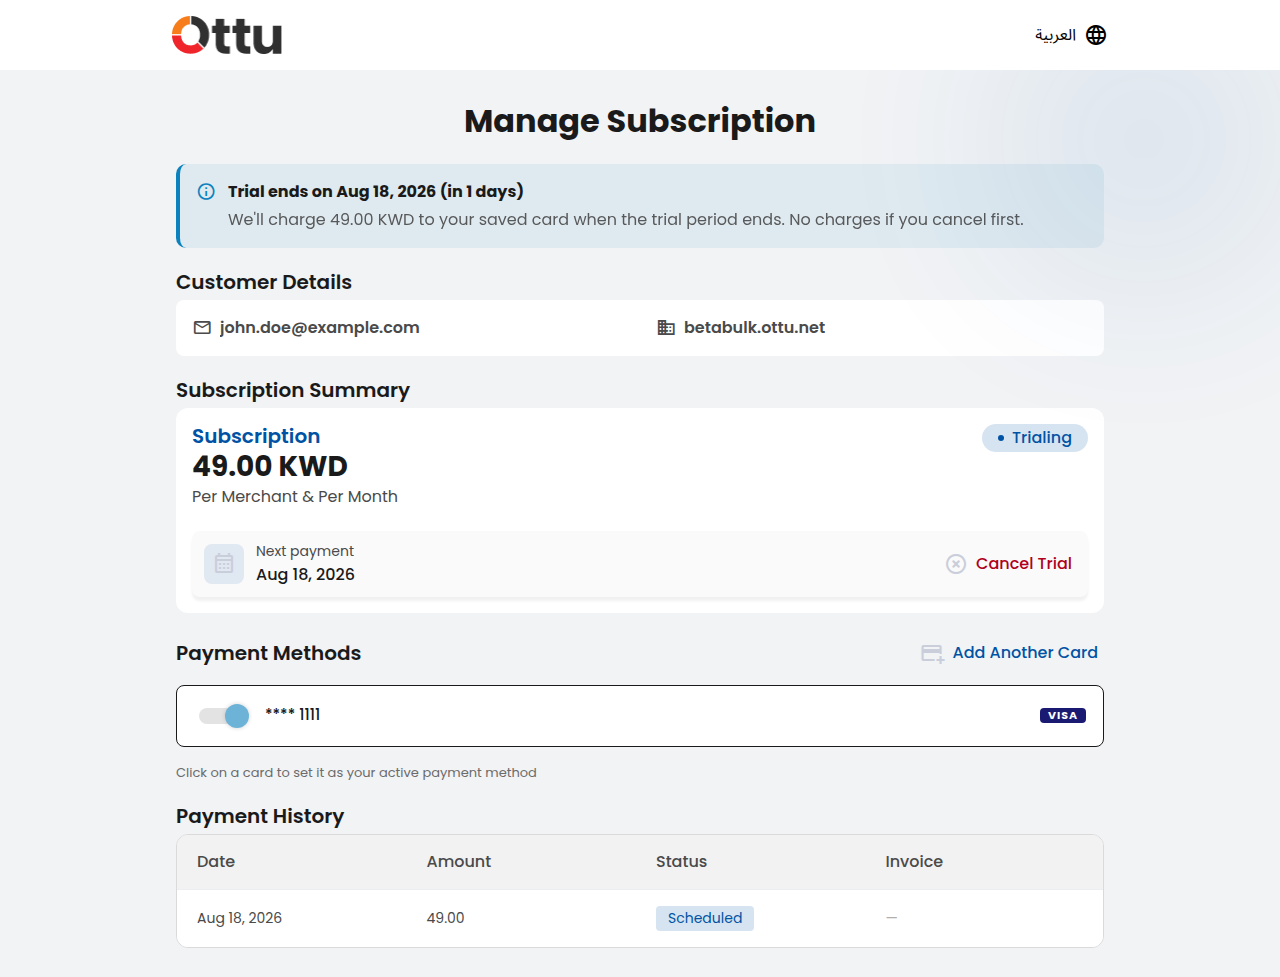
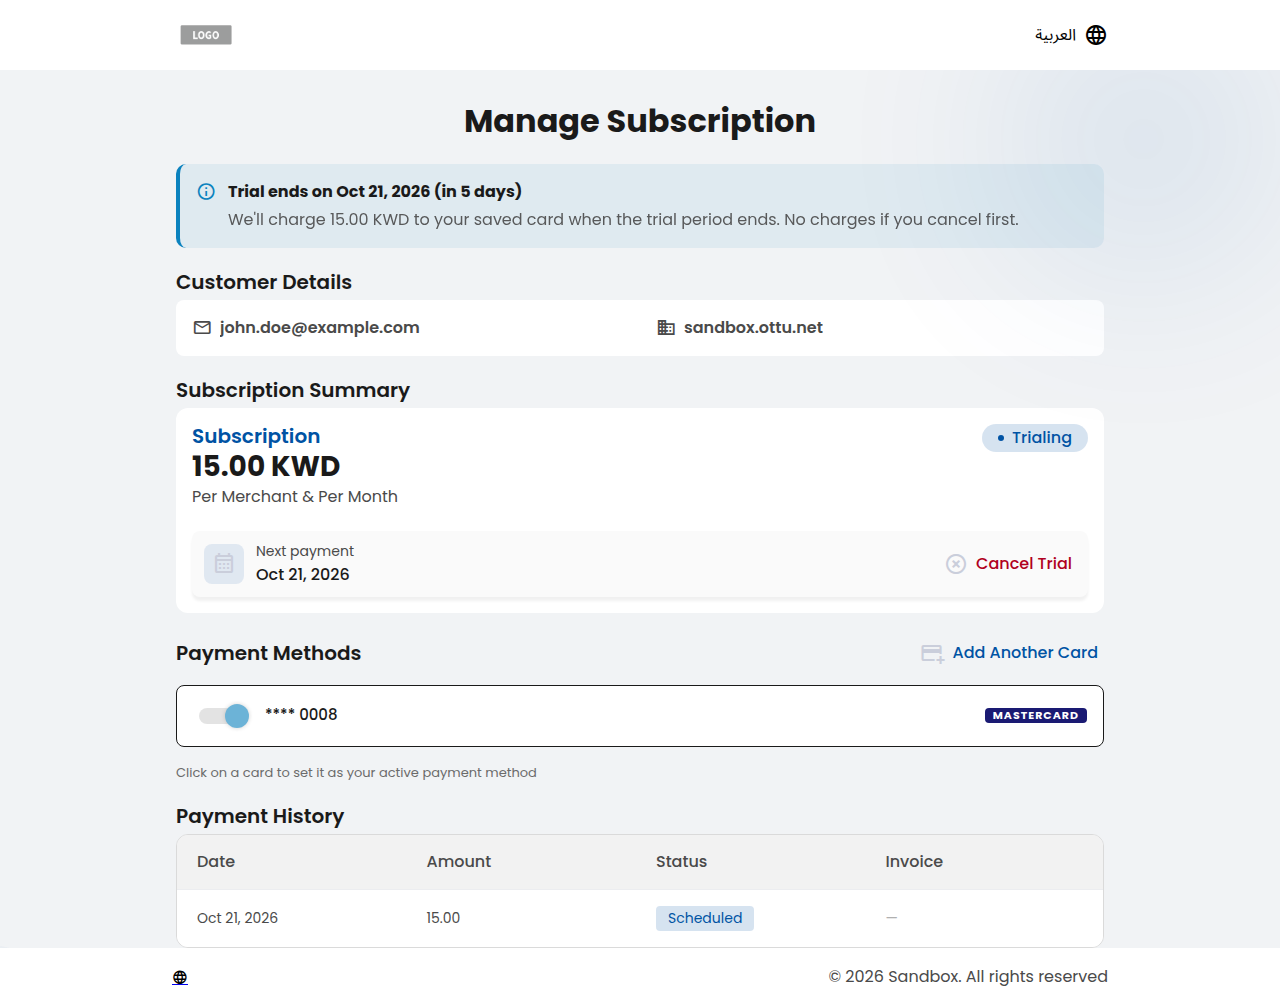
158913 :: docs(autopay): sandbox screenshots for the customer view
- Developer page: "What your customer sees" uses the step guide with the
  first-charge checkout and self-service page captures.
- Business page: six self-service captures retaken on sandbox, and "Give a
  reason" now comes before "Confirm a cancellation", as in the real flow.
- The reminder-email capture is still to come; that step stays text-only.

diff --git a/src/data/autopay-customer-view.tsx b/src/data/autopay-customer-view.tsx
@@ -1,9 +1,8 @@
 import React from "react";
 import type { Step } from "@site/src/components/StepGuide";
 
-// TODO #158913: add real sandbox screenshots from Junaid, one `image` + `imageAlt` per step, at
-// /img/developers/autopay/first-charge-checkout.png, self-service-page.png and reminder-email.png.
-// No image props until the files exist: StepGuide renders text-only steps without them.
+// TODO #158913: reminder-email.png still needs a real sandbox capture. Until it exists, that step
+// stays text-only (StepGuide renders a step without an image).
 export const autopayCustomerViewSteps: Step[] = [
   {
     title: "The first-charge checkout",
@@ -13,6 +12,8 @@ export const autopayCustomerViewSteps: Step[] = [
         later charges need no action from them.
       </>
     ),
+    image: "/img/developers/autopay/first-charge-checkout.png",
+    imageAlt: "Ottu's checkout page for the first AutoPay charge, with the card form and the amount due",
   },
   {
     title: "The self-service page",
@@ -23,6 +24,8 @@ export const autopayCustomerViewSteps: Step[] = [
         cancellation.
       </>
     ),
+    image: "/img/developers/autopay/self-service-page.png",
+    imageAlt: "The customer's self-service page: subscription summary, saved card and payment history",
   },
   {
     title: "One email: the charge reminder",

diff --git a/docs/business/autopay/index.md b/docs/business/autopay/index.md
@@ -191,16 +191,16 @@ And these are the actions a customer can take:
     imageAlt: "Adding a card: a secure checkout where the customer enters and saves a new card to the subscription",
   },
   {
-    title: "Confirm a cancellation",
-    description: <>The dialog states when access ends and that no further charges follow.</>,
-    image: "/img/business/autopay/cancellation-01-confirm.png",
-    imageAlt: "Cancellation confirmation dialog stating access continues until the end of the paid period",
-  },
-  {
     title: "Give a reason",
     description: <>A short reason list, clearly marked optional.</>,
     image: "/img/business/autopay/cancellation-02-reason-options.png",
     imageAlt: "Optional cancellation reason selection dialog",
+  },
+  {
+    title: "Confirm a cancellation",
+    description: <>The dialog states when access ends and that no further charges follow.</>,
+    image: "/img/business/autopay/cancellation-01-confirm.png",
+    imageAlt: "Cancellation confirmation dialog stating access continues until the end of the paid period",
   },
   {
     title: "Undo the cancellation",
